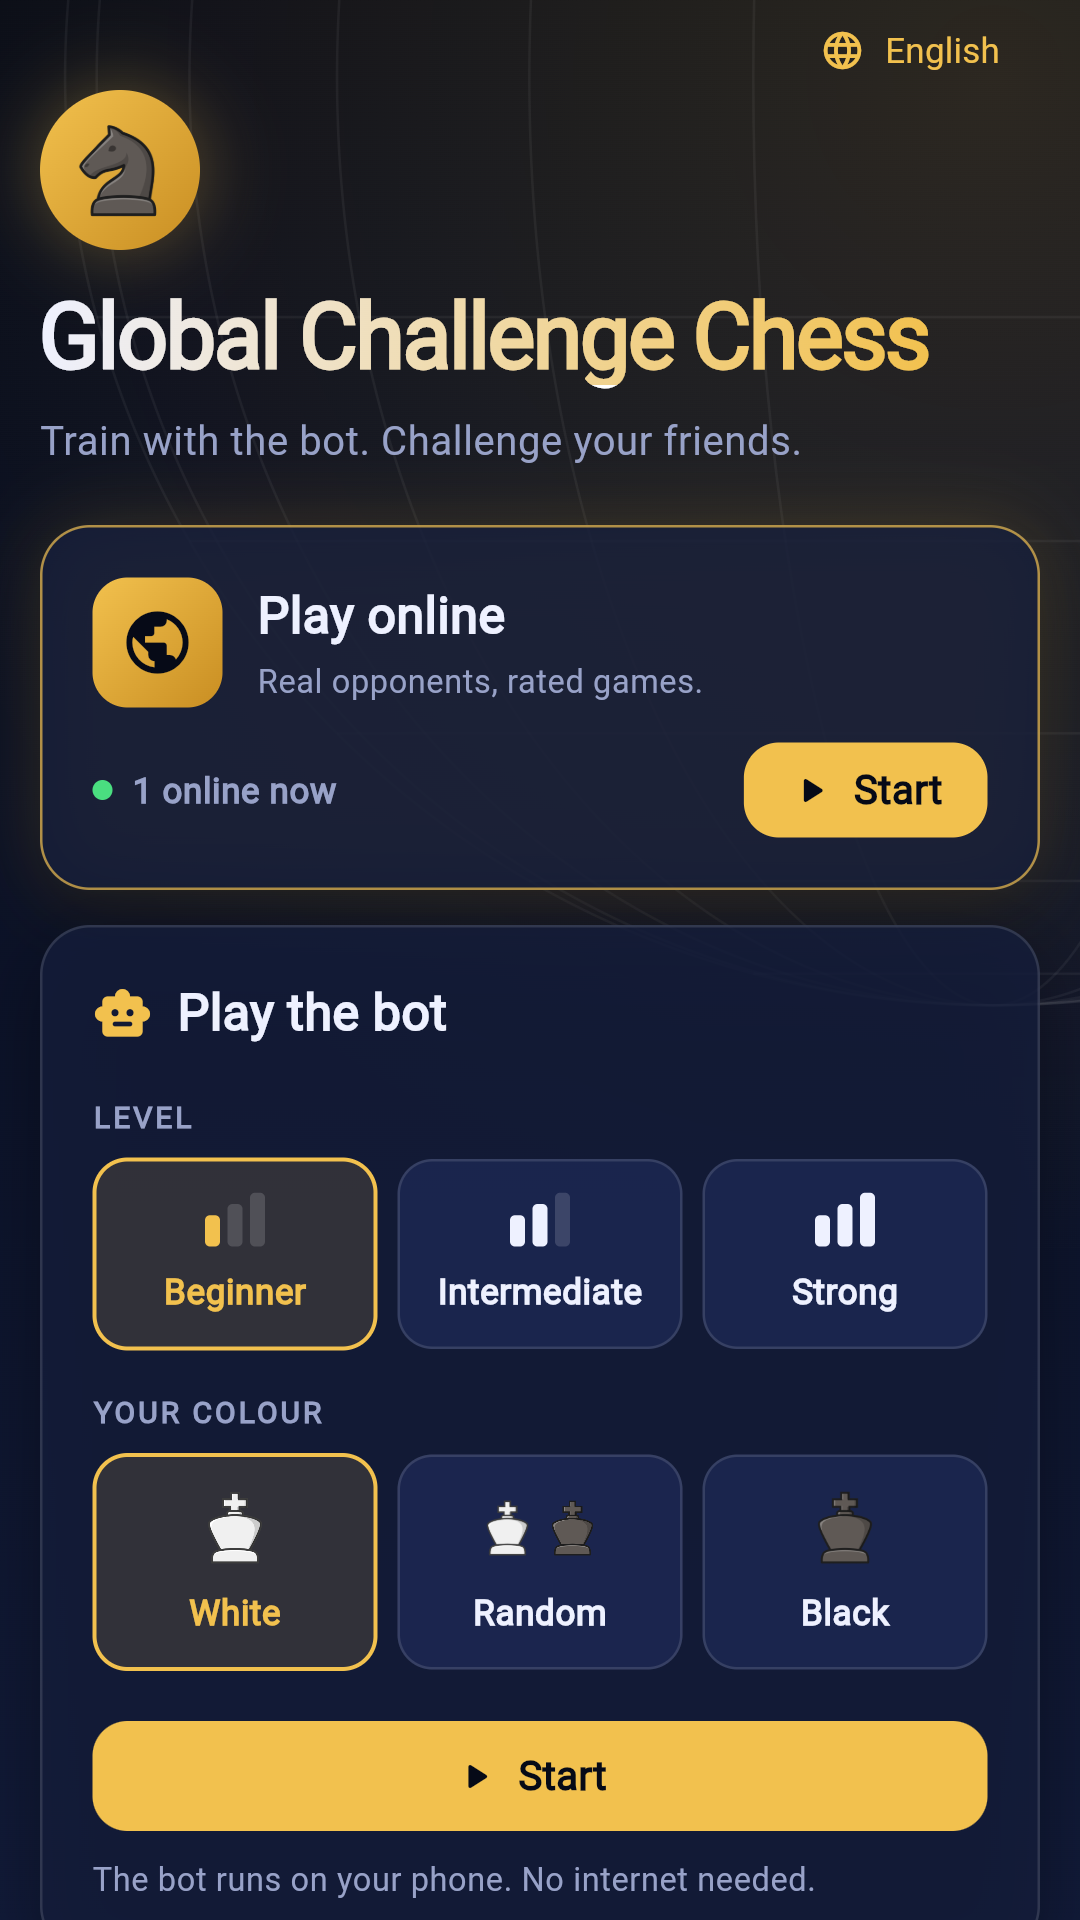
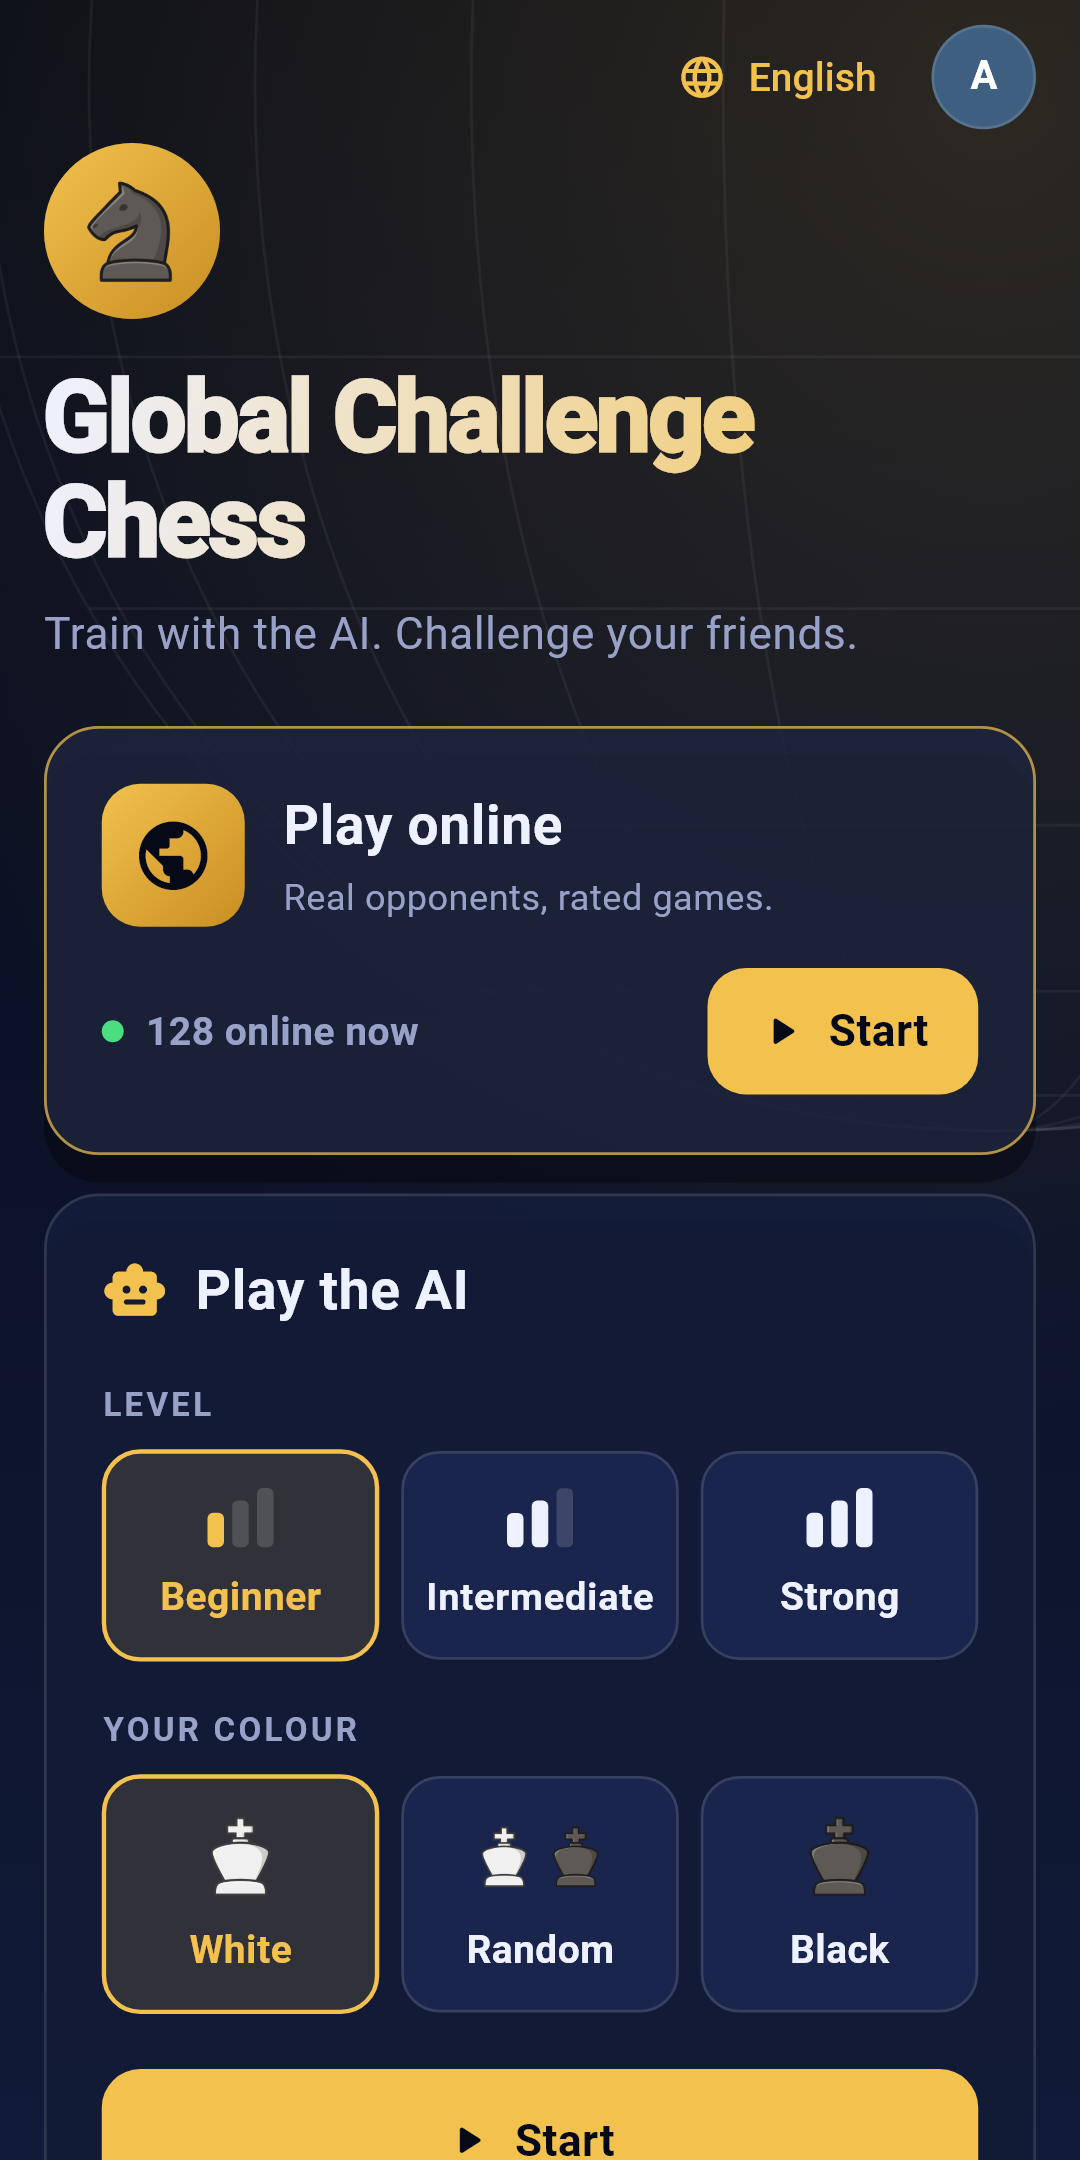
Store screenshots: current UI (AI, lobby, leaderboard, online), 1080x2160, generated by tool/store_screenshots_test.dart

diff --git a/apps/mobile/tool/store_screenshots_test.dart b/apps/mobile/tool/store_screenshots_test.dart
@@ -1,0 +1,198 @@
+// Play Store phone screenshots (1080x2160, 2:1 is the tallest Play allows) in en/uz/ru, written to store/screenshots/.
+//
+// Regenerate after UI changes (from apps/mobile):
+//   flutter test tool/store_screenshots_test.dart --update-goldens
+//
+// Kept out of test/ so a normal `flutter test` doesn't compare against them.
+import 'dart:convert';
+
+import 'package:dartchess/dartchess.dart' hide File;
+import 'package:flutter/material.dart';
+import 'package:flutter_test/flutter_test.dart';
+import 'package:shared_preferences/shared_preferences.dart';
+import 'package:shaxmat/engine/bot.dart';
+import 'package:shaxmat/engine/think_time.dart';
+import 'package:shaxmat/l10n/app_localizations.dart';
+import 'package:shaxmat/locale_controller.dart';
+import 'package:shaxmat/main_app.dart';
+import 'package:shaxmat/online/game_launcher.dart';
+import 'package:shaxmat/online/lobby_screen.dart';
+import 'package:shaxmat/online/online_client.dart';
+import 'package:shaxmat/screens/game_screen.dart';
+
+import '../test/game_screen_test.dart' show FakeBot, loadFonts, move;
+import '../test/online_screens_test.dart' show FakeServer, lobbyPlayer, ratings, settle, disposeAll;
+
+const locales = ['en', 'uz', 'ru'];
+
+Future<void> shot(String locale, String name) =>
+    expectLater(find.byType(MaterialApp).first, matchesGoldenFile('../../../store/screenshots/$locale/$name.png'));
+
+void storeSize(WidgetTester tester) {
+  tester.view.physicalSize = const Size(1080, 2160);
+  tester.view.devicePixelRatio = 2.75;
+  addTearDown(tester.view.reset);
+}
+
+Future<void> images(WidgetTester tester) async {
+  await tester.runAsync(() => Future<void>.delayed(const Duration(milliseconds: 300)));
+  await settle(tester);
+}
+
+/// FakeServer whose signed-in player has a real-looking name and rating.
+class StoreServer extends FakeServer {
+  @override
+  void send(String data) {
+    final m = jsonDecode(data) as Map<String, dynamic>;
+    if (m['type'] == 'auth:guest' || m['type'] == 'auth') {
+      sent.add(m);
+      push({
+        'type': 'auth:ok',
+        'token': 'tok-1',
+        'user': {
+          'id': 'u1', 'name': 'Aziz', 'avatar': null,
+          'ratings': ratings(1540),
+          'stats': {'wins': 12, 'losses': 7, 'draws': 2},
+        },
+      });
+      push({'type': 'lobby:stats', 'onlineCount': onlineCount});
+      onSent?.call(m);
+      return;
+    }
+    super.send(data);
+  }
+}
+
+FakeServer lobbyServer() => StoreServer()
+  ..onlineCount = 128
+  ..lobby = [
+    lobbyPlayer('u2', 'Dilnoza', 'ready', rating: 1655, wins: 14),
+    lobbyPlayer('u3', 'Sardor Karimov', 'playing', rating: 1932, wins: 51),
+    lobbyPlayer('u4', 'Alex', 'ready', rating: 1580, wins: 7),
+    lobbyPlayer('u5', 'Malika', 'playing', rating: 1744, wins: 22),
+    lobbyPlayer('u6', 'Ivan', 'watching', rating: 1490, wins: 3),
+    lobbyPlayer('u7', 'Jasur', 'watching', rating: 1612, wins: 9),
+    lobbyPlayer('u1', 'Aziz', 'watching', rating: 1540, wins: 12), // me: never listed
+  ];
+
+Future<FakeServer> pumpLobbyApp(WidgetTester tester, String locale, int tab, FakeServer server) async {
+  storeSize(tester);
+  SharedPreferences.setMockInitialValues({});
+  final client = OnlineClient(prefs: await SharedPreferences.getInstance(), connector: (_) async => server);
+  final nav = GlobalKey<NavigatorState>();
+  await tester.pumpWidget(OnlineScope(
+    client: client,
+    child: MaterialApp(
+      navigatorKey: nav,
+      debugShowCheckedModeBanner: false,
+      builder: (context, child) => GameLauncher(navigatorKey: nav, child: child!),
+      theme: appTheme(),
+      localizationsDelegates: localizationsDelegates,
+      supportedLocales: AppLocalizations.supportedLocales,
+      locale: Locale(locale),
+      home: LobbyScreen(initialTab: tab),
+    ),
+  ));
+  await settle(tester);
+  return server;
+}
+
+void main() {
+  setUpAll(loadFonts);
+
+  for (final locale in locales) {
+    group(locale, () {
+      testWidgets('1 menu', (tester) async {
+        storeSize(tester);
+        SharedPreferences.setMockInitialValues({'locale': locale});
+        final prefs = await SharedPreferences.getInstance();
+        final server = StoreServer()..onlineCount = 128;
+        await tester.pumpWidget(ShaxmatApp(
+          localeController: LocaleController(prefs),
+          onlineClient: OnlineClient(prefs: prefs, connector: (_) async => server),
+        ));
+        await images(tester);
+        await shot(locale, '1-menu');
+        await disposeAll(tester);
+      });
+
+      testWidgets('2 lobby', (tester) async {
+        await pumpLobbyApp(tester, locale, 0, lobbyServer());
+        await images(tester);
+        await shot(locale, '2-lobby');
+        await disposeAll(tester);
+      });
+
+      testWidgets('3 leaderboard', (tester) async {
+        final server = StoreServer()..onlineCount = 128;
+        final names = ['Sardor Karimov', 'Malika', 'Dilnoza', 'Alex', 'Jasur', 'Ivan', 'Aziz', 'Elena'];
+        server.onSent = (m) {
+          if (m['type'] == 'leaderboard:get') {
+            server.push({
+              'type': 'leaderboard', 'category': m['category'], 'sort': m['sort'],
+              'players': [
+                for (var i = 0; i < names.length; i++)
+                  {
+                    'rank': i + 1, 'id': 'p$i', 'name': names[i], 'avatar': null, 'rating': 2010 - i * 61,
+                    'provisional': false, 'games': 70 - i * 6, 'wins': 51 - i * 5, 'losses': 12 + i, 'draws': 4,
+                  },
+              ],
+              'me': {
+                'rank': 17, 'id': 'u1', 'name': 'Aziz', 'avatar': null, 'rating': 1540, 'provisional': false,
+                'games': 21, 'wins': 12, 'losses': 7, 'draws': 2,
+              },
+            });
+          }
+        };
+        await pumpLobbyApp(tester, locale, 2, server);
+        await images(tester);
+        await shot(locale, '3-leaderboard');
+        await disposeAll(tester);
+      });
+
+      testWidgets('4 ai game', (tester) async {
+        storeSize(tester);
+        final bot = FakeBot(['e7e5', 'b8c6', 'g8f6', 'f8c5']);
+        await tester.pumpWidget(MaterialApp(
+          debugShowCheckedModeBanner: false,
+          theme: appTheme(),
+          localizationsDelegates: localizationsDelegates,
+          supportedLocales: AppLocalizations.supportedLocales,
+          locale: Locale(locale),
+          home: GameScreen(botLevel: BotLevel.intermediate, botFactory: () async => bot, thinkTime: noThinkTime),
+        ));
+        await images(tester);
+        for (final (from, to) in [('e2', 'e4'), ('g1', 'f3'), ('f1', 'c4'), ('d2', 'd3')]) {
+          await move(tester, from, to);
+        }
+        await images(tester);
+        await shot(locale, '4-ai');
+        await disposeAll(tester);
+      });
+
+      testWidgets('5 online game', (tester) async {
+        final server = await pumpLobbyApp(tester, locale, 1, lobbyServer());
+        final now = DateTime.now().millisecondsSinceEpoch;
+        server.push({
+          'type': 'game:start', 'gameId': 'g1', 'color': 'white',
+          'opponent': {'id': 'u2', 'name': 'Dilnoza', 'rating': 1655, 'provisional': false},
+          'timeControl': '5+0', 'rated': true,
+          'fen': Chess.initial.fen, 'clocks': {'white': 300000, 'black': 300000}, 'serverTime': now,
+        });
+        await settle(tester);
+        Position pos = Chess.initial;
+        const ucis = ['e2e4', 'c7c5', 'g1f3', 'd7d6', 'd2d4', 'c5d4', 'f3d4', 'g8f6', 'b1c3', 'a7a6'];
+        for (var i = 0; i < ucis.length; i++) {
+          pos = pos.play(Move.parse(ucis[i])!);
+          server.push({
+            'type': 'game:move', 'gameId': 'g1', 'uci': ucis[i], 'ply': i + 1, 'fen': pos.fen,
+            'clocks': {'white': 300000 - i * 4100, 'black': 300000 - i * 5300}, 'serverTime': now,
+          });
+        }
+        await images(tester);
+        await shot(locale, '5-online');
+        await disposeAll(tester);
+      });
+    });
+  }
+}

diff --git a/store/README.md b/store/README.md
@@ -5,7 +5,7 @@
 | `listing-en.md`, `listing-uz.md`, `listing-ru.md` | Main store listing → nom, qisqa va to'liq tavsif (har til uchun "Manage translations") |
 | `../apps/mobile/store/icon-512.png` | App icon (512×512) |
 | `feature-graphic-{en,uz,ru}.png` | Feature graphic (1024×500) |
-| `screenshots/{en,uz,ru}/*.png` | Phone screenshots (1080×1920, 4 ta) |
+| `screenshots/{en,uz,ru}/*.png` | Phone screenshots (1080×2160, 5 ta: menyu, lobbi, reyting, AI bilan, onlayn). Qayta yaratish: `apps/mobile` da `flutter test tool/store_screenshots_test.dart --update-goldens` |
 | `../docs/privacy.md` | Privacy policy — URL: https://max19942008.github.io/global-challenge-chess/privacy |
 
 ## Store settings
